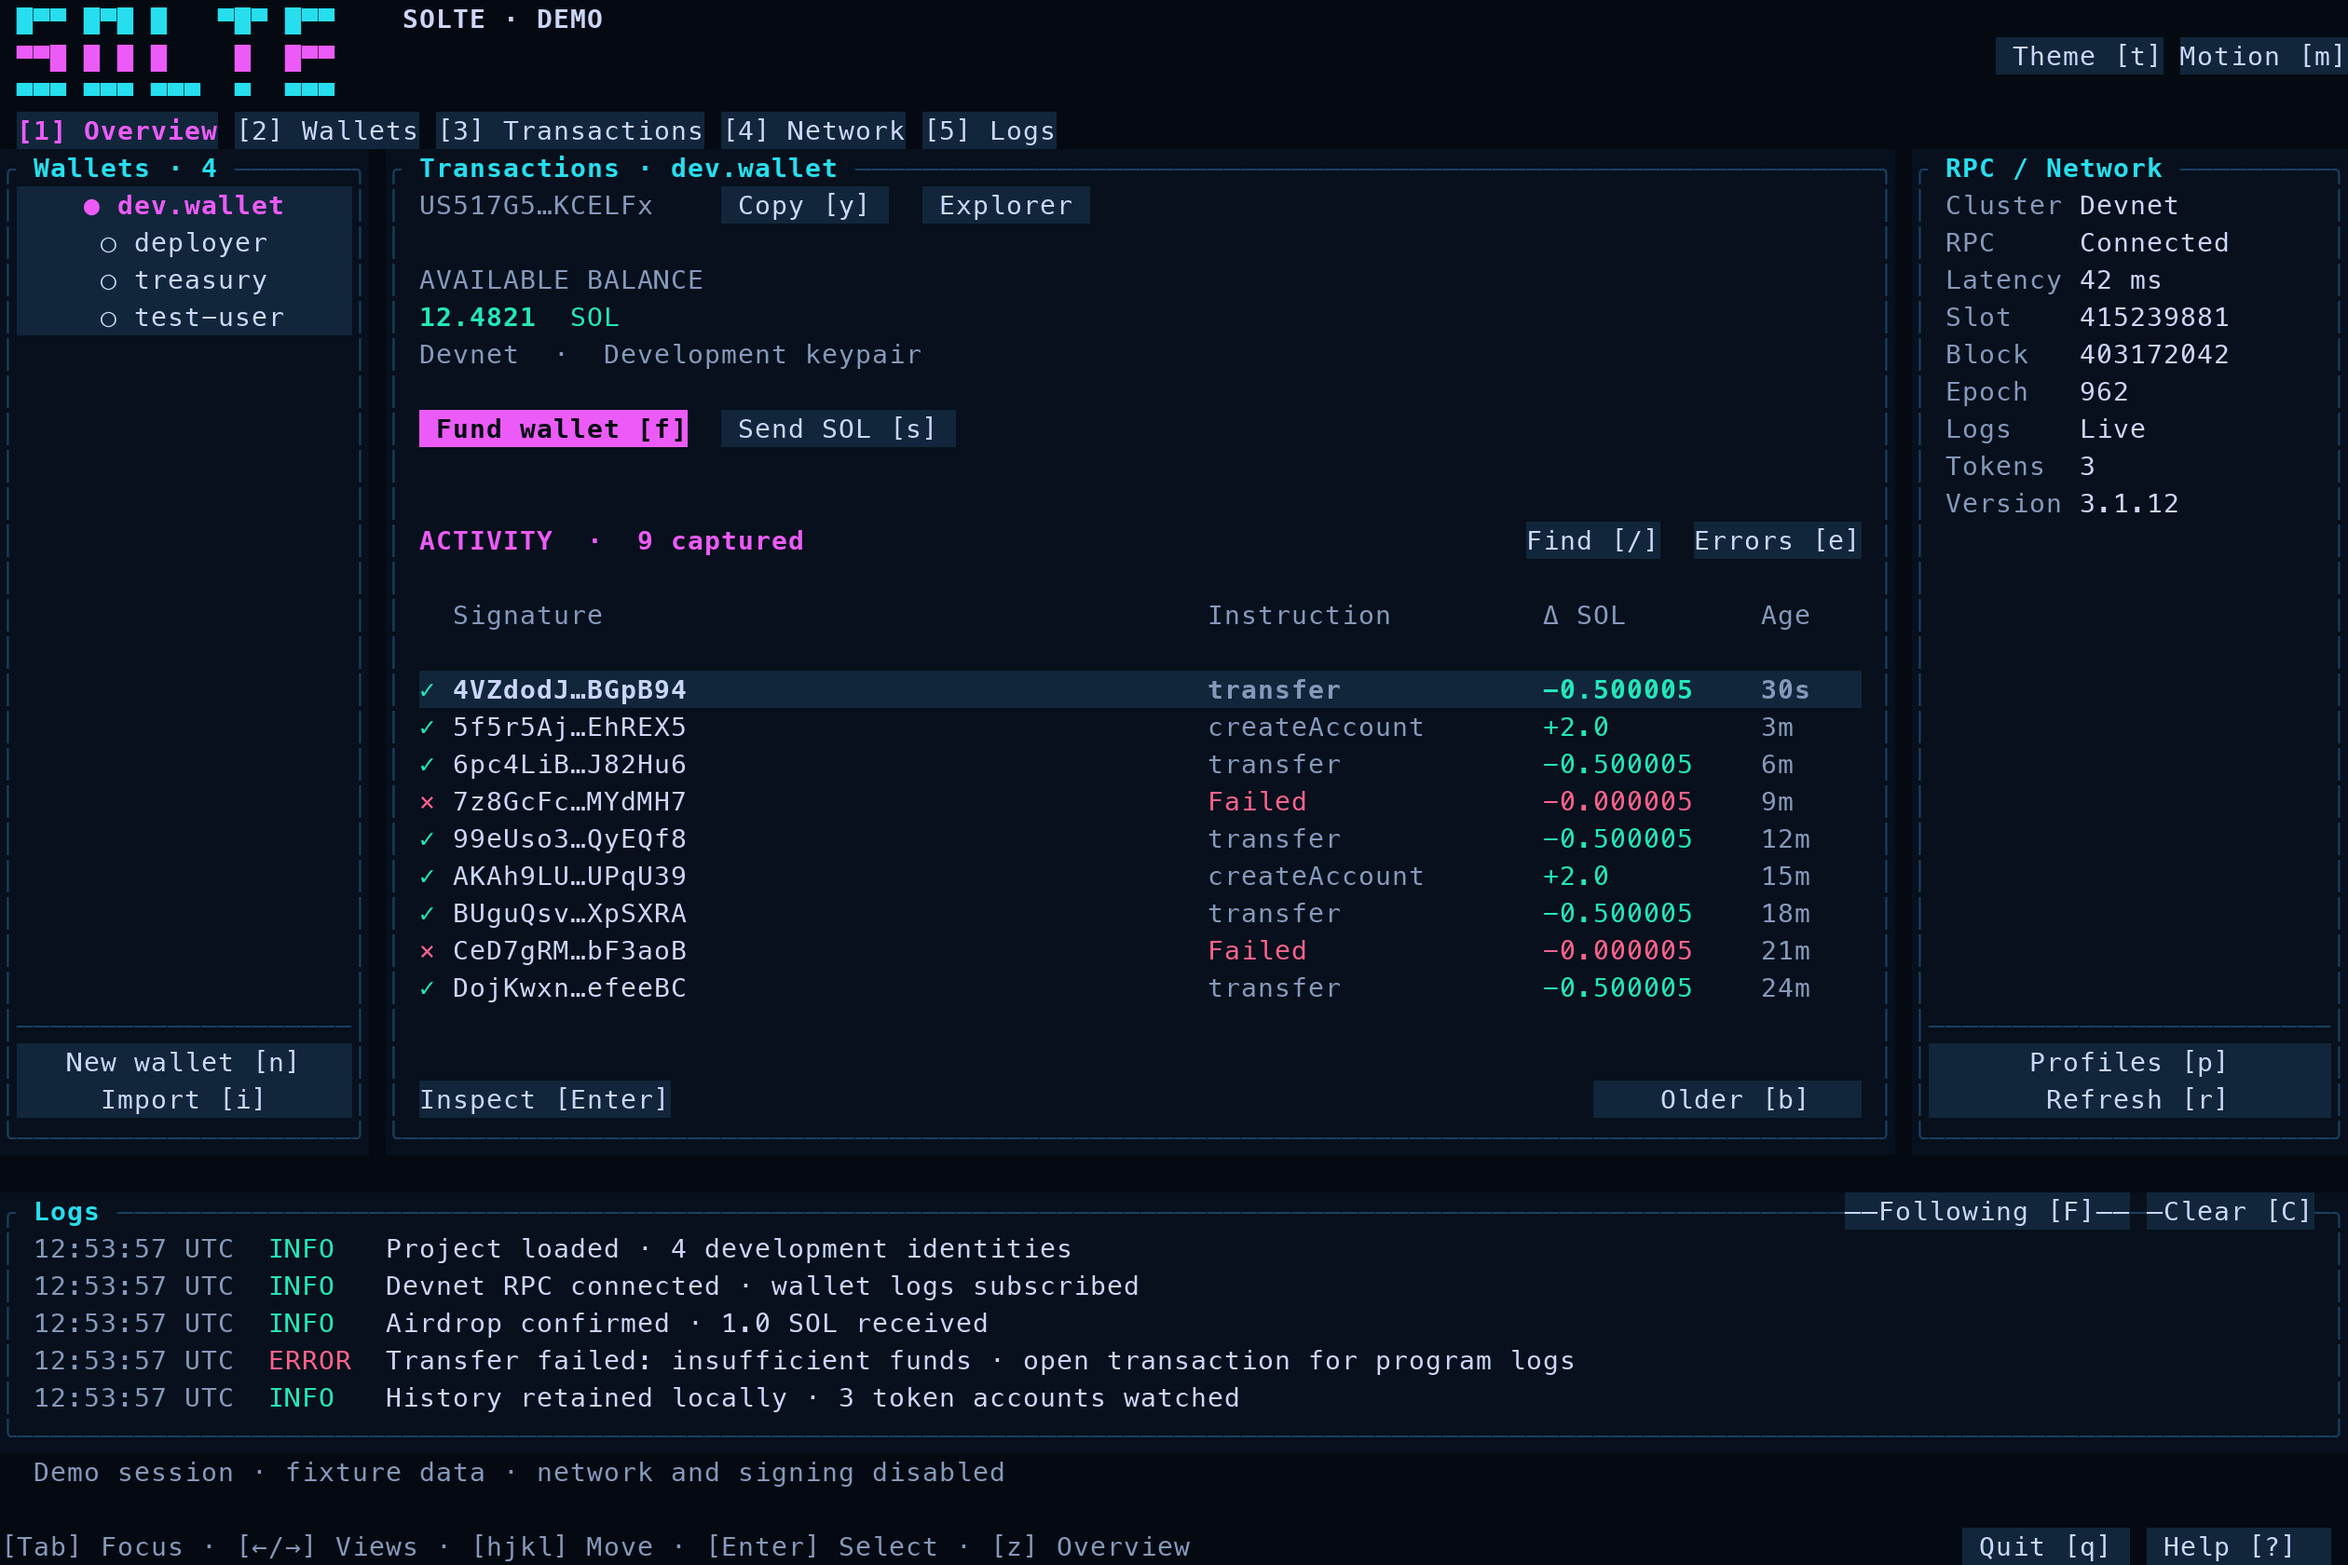
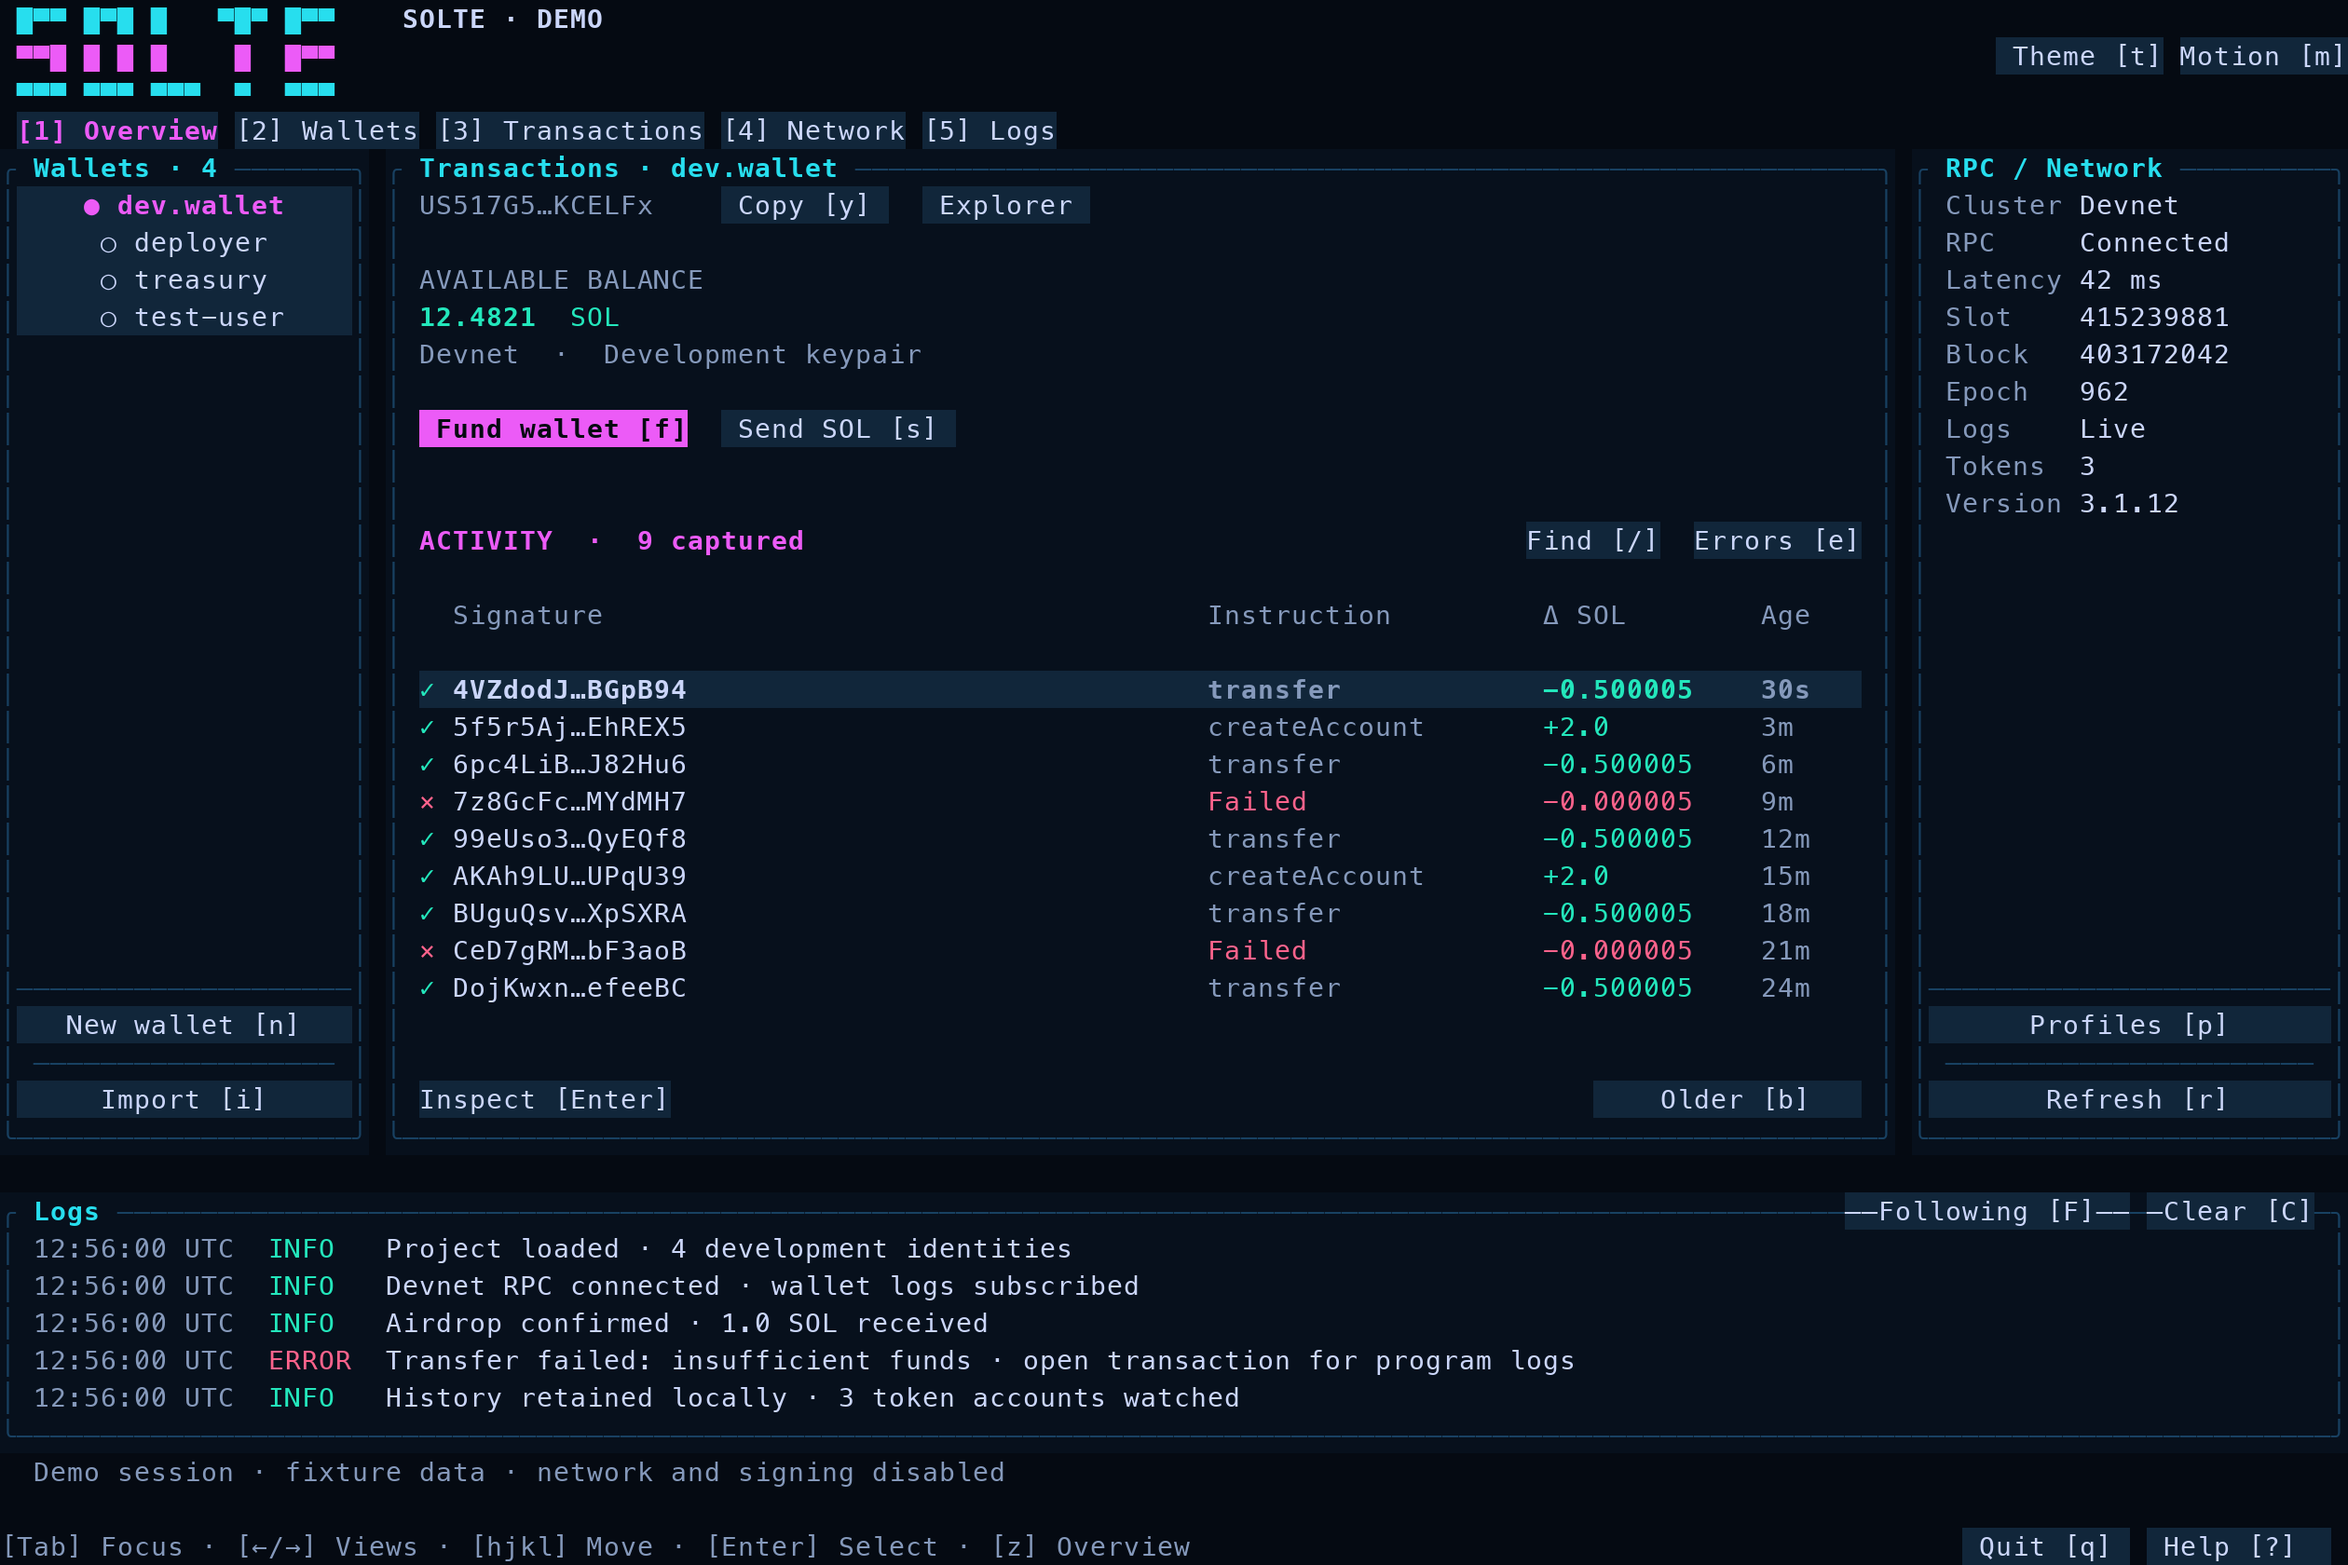
fix(layout): separate sidebar actions with subtle dividers

Changed region(s): [[0.8048, 0.619, 1.0, 0.7119], [0.0, 0.619, 0.1548, 0.7119], [0.031, 0.8667, 0.0619, 0.8976]]

diff --git a/src/ui/layout.rs b/src/ui/layout.rs
@@ -143,6 +143,16 @@ impl Ui {
                     .style(Style::default().fg(theme.border)),
                 Rect::new(inner.x, content.bottom(), inner.width, 1),
             );
+            frame.render_widget(
+                Paragraph::new("─".repeat(inner.width.saturating_sub(2) as usize))
+                    .style(Style::default().fg(theme.border)),
+                Rect::new(
+                    inner.x + 1,
+                    inner.bottom() - 2,
+                    inner.width.saturating_sub(2),
+                    1,
+                ),
+            );
         }
     }
 
@@ -267,7 +277,7 @@ impl Ui {
 
 fn sidebar_sections(inner: Rect) -> (Rect, Rect, Rect) {
     let spacious = inner.height >= 8;
-    let reserved = if spacious { 3 } else { 2 };
+    let reserved = if spacious { 4 } else { 2 };
     (
         Rect::new(
             inner.x,
@@ -275,7 +285,12 @@ fn sidebar_sections(inner: Rect) -> (Rect, Rect, Rect) {
             inner.width,
             inner.height.saturating_sub(reserved),
         ),
-        Rect::new(inner.x, inner.bottom() - 2, inner.width, 1),
+        Rect::new(
+            inner.x,
+            inner.bottom() - if spacious { 3 } else { 2 },
+            inner.width,
+            1,
+        ),
         Rect::new(inner.x, inner.bottom() - 1, inner.width, 1),
     )
 }
